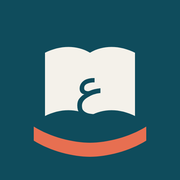
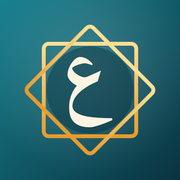
versioni 1.3

diff --git a/assets/style.css b/assets/style.css
@@ -82,19 +82,22 @@ p{margin:0 0 12px}.lead{color:var(--mut);max-width:62ch}.mut{color:var(--mut)}.s
 
 /* ---------- KOKA DHE NAVIGIMI ---------- */
 #top{position:sticky;top:0;z-index:20;background:var(--hero1);color:var(--onhero);padding-top:env(safe-area-inset-top)}
-#top .in{max-width:880px;margin:0 auto;display:flex;align-items:center;gap:8px;padding:8px max(5vw,16px);min-height:60px}
-.brand{display:flex;align-items:center;gap:10px;background:none;border:0;cursor:pointer;padding:4px 0;margin-inline-end:auto;color:var(--onhero)}
-.logo{width:36px;height:36px;border-radius:11px;display:grid;place-items:center;background:var(--acc);color:var(--onacc);font:700 22px/1 "Reem Kufi",serif;box-shadow:0 3px 0 var(--accd);padding-bottom:4px}
-.bt{font-weight:700;font-size:17px;letter-spacing:-.01em}
-.tabs{display:flex;gap:4px}
-.tab{display:flex;align-items:center;gap:7px;font-size:15px;min-height:42px;padding:6px 13px;border-radius:12px;border:0;background:none;color:var(--onhero2);cursor:pointer;transition:background .2s,color .2s}
+#top .in{max-width:1200px;margin:0 auto;display:flex;align-items:center;gap:16px;padding:10px max(4vw,16px);min-height:64px}
+.brand{display:flex;align-items:center;gap:11px;background:none;border:0;cursor:pointer;padding:4px 0;color:var(--onhero);flex:none;white-space:nowrap}
+.logo{width:40px;height:40px;border-radius:11px;display:block;box-shadow:0 4px 12px #0000004d,0 0 0 1px #ffffff1f;transition:transform .25s var(--ease)}
+.brand:hover .logo{transform:rotate(-6deg) scale(1.05)}
+.bt{font-weight:500;font-size:18px;letter-spacing:-.01em;color:var(--onhero2)}.bt b{font-weight:700;color:var(--onhero)}
+.tabs{display:flex;gap:2px;flex:1;justify-content:center}
+.tab{display:flex;align-items:center;gap:7px;font-size:15px;font-weight:500;min-height:42px;padding:6px 14px;white-space:nowrap;border-radius:12px;border:0;background:none;color:var(--onhero2);cursor:pointer;transition:background .2s,color .2s}
 .tab:hover{color:var(--onhero)}
 .tab[aria-current=page]{background:#ffffff1f;color:var(--onhero)}
-.chips{display:flex;gap:6px}
+.chips{display:flex;gap:6px;flex:none;margin-inline-start:auto}
 .chip{display:flex;align-items:center;gap:5px;min-height:38px;padding:4px 11px;border-radius:99px;border:0;background:#ffffff14;color:var(--onhero2);font-weight:700;cursor:pointer}
 .chip .ic{width:18px;height:18px}
 .chip.fire.lit{color:#fff}.chip.fire.lit .ic{color:var(--fire);filter:drop-shadow(0 0 6px #ff8a1a99)}
 .chip.bolt .ic{color:var(--gold)}
+.chip.adm{padding:4px 10px}.chip.adm[aria-current=page]{background:#ffffff2e;color:var(--onhero)}
+@media(min-width:721px) and (max-width:1060px){.bt{display:none}#top .in{gap:10px}.tab{padding:6px 10px;font-size:14px}.tab .ic{display:none}}
 body.inlesson #top,body.bare #top{display:none}
 @media(max-width:720px){
  .bt{display:none}

diff --git a/assets/app.js b/assets/app.js
@@ -376,16 +376,17 @@ function lvQuestions(li) {
 /* ---------- KOKA DHE NAVIGIMI ---------- */
 const TABS0 = [['home', 'Mësimi', 'home'], ['dict', 'Fjalori', 'book'], ['rank', 'Renditja', 'trophy'], ['stats', 'Progresi', 'chart'], ['me', 'Profili', 'user']];
 const isAdm = () => !!(ME() && ME().a);
-const TABSF = () => isAdm() ? TABS0.concat([['admin', 'Admin', 'gear']]) : TABS0;
+const TABSF = () => TABS0;
 let tab = 'home';
 function chrome() {
   const si = streakInfo(), TABS = TABSF();
   top.innerHTML = `<div class="in">
-  <button class="brand" data-tab="home" aria-label="Mëso Arabisht, faqja kryesore"><span class="logo">ع</span><span class="bt">Mëso Arabisht</span></button>
+  <button class="brand" data-tab="home" aria-label="Mëso Arabisht, faqja kryesore"><img class="logo" src="/icons/icon.svg" alt="" width="40" height="40"><span class="bt">Mëso <b>Arabisht</b></span></button>
   <nav class="tabs" aria-label="Navigimi kryesor">${TABS.map(([k, l, i]) => `<button class="tab" data-tab="${k}"${tab === k ? ' aria-current="page"' : ''}>${ic(i)}<span>${l}</span>${k === 'rank' && GRP.invites.length ? '<i class="dot" aria-label="ftesë e re"></i>' : ''}</button>`).join('')}</nav>
   <div class="chips">
    <button class="chip fire${si.done ? ' lit' : ''}" data-tab="stats" aria-label="Seria: ${si.n} ditë radhazi">${ic('flame')}<b>${si.n}</b></button>
    <button class="chip bolt" data-tab="stats" aria-label="XP sot: ${xpToday()}">${ic('bolt')}<b>${xpToday()}</b></button>
+   ${isAdm() ? `<button class="chip adm" data-tab="admin"${tab === 'admin' ? ' aria-current="page"' : ''} aria-label="Paneli i administratorit" title="Paneli i administratorit">${ic('gear')}</button>` : ''}
   </div></div>`;
 }
 const VIEWS = { home, dict, rank, stats, me, admin };

diff --git a/sw.js b/sw.js
@@ -1,6 +1,6 @@
 /* Punon edhe pa internet pasi hapet një herë. Ndrysho VERSION kur publikon përmbajtje të re. */
-const VERSION='arabisht-v7';
-const CORE=['/','/index.html','/assets/style.css','/assets/app.js','/assets/data.js','/manifest.webmanifest','/icons/icon.svg','/icons/icon-192.png','/icons/icon-512.png','/icons/apple-touch-icon.png'];
+const VERSION='arabisht-v8';
+const CORE=['/','/index.html','/assets/style.css','/assets/app.js','/assets/data.js','/manifest.webmanifest','/icons/icon.svg','/icons/icon-192.png','/icons/icon-512.png','/icons/apple-touch-icon.png','/icons/icon-maskable-512.png'];
 self.addEventListener('install',e=>{e.waitUntil(caches.open(VERSION).then(c=>c.addAll(CORE)).then(()=>self.skipWaiting()))});
 self.addEventListener('activate',e=>{e.waitUntil(caches.keys().then(ks=>Promise.all(ks.filter(k=>k!==VERSION).map(k=>caches.delete(k)))).then(()=>self.clients.claim()))});
 self.addEventListener('fetch',e=>{
